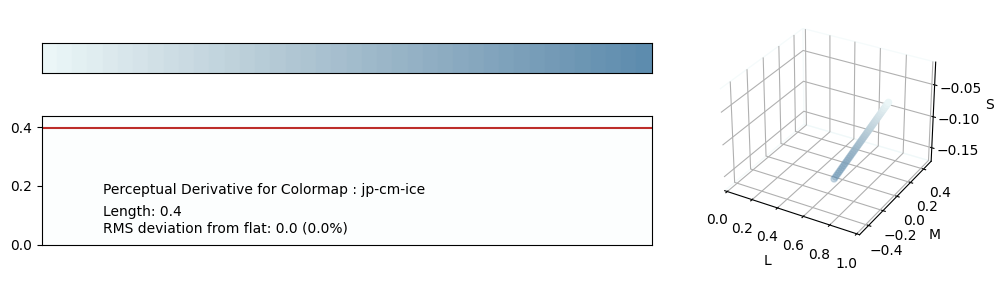
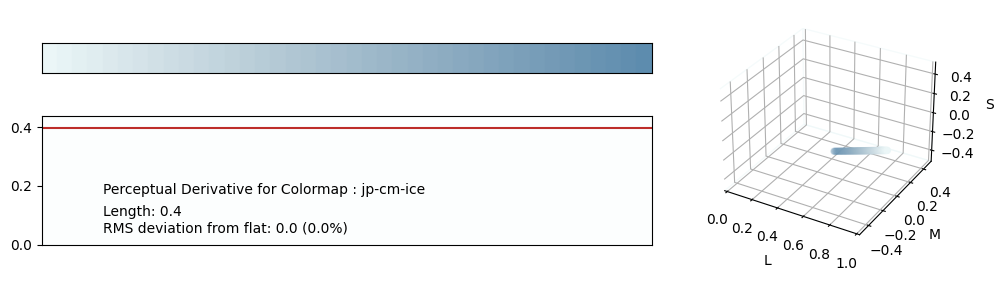
add vis

diff --git a/src/jpcm/core/core.py b/src/jpcm/core/core.py
@@ -133,7 +133,7 @@ def draw(gradient, RGB, name):
     ax3 = fig.add_axes([1.0, 0.1, 0.5, 0.5], projection="3d")
     ax3.set(xlim3d=(0, 1), xlabel='L')
     ax3.set(ylim3d=(-0.5, 0.5),ylabel='M')#ylim3d=(0, 1),
-    ax3.set(ylim3d=(-0.5, 0.5), zlabel='S') # zlim3d=(0, 1),
+    ax3.set(zlim3d=(-0.5, 0.5), zlabel='S') # zlim3d=(0, 1),
     ax3.scatter(gradient[:,0],gradient[:,1],gradient[:,2],c=list(range(gradient.shape[0])),cmap=cmap)
     ax3.set_facecolor(maps.transparent)
     ax3.xaxis.pane.fill = False
